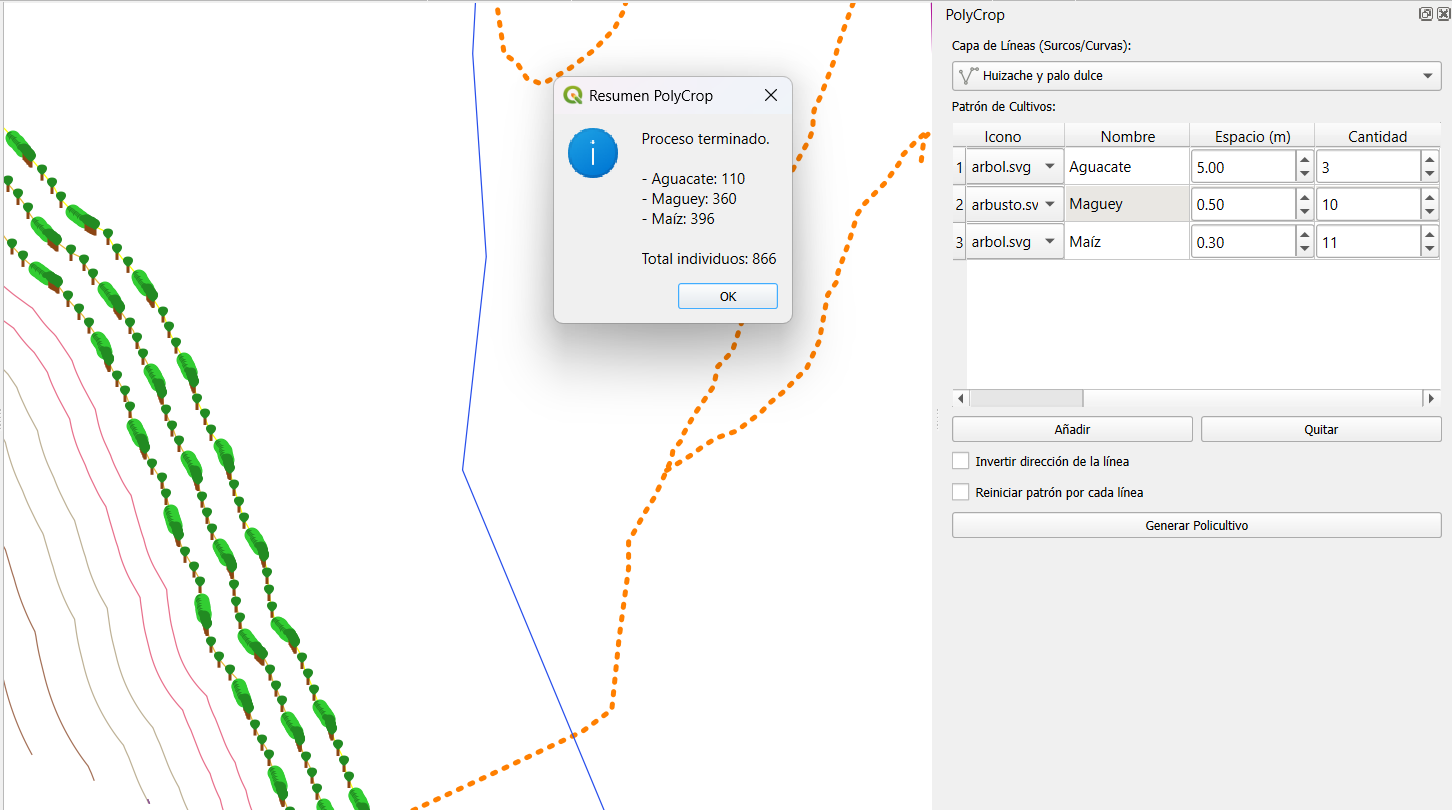
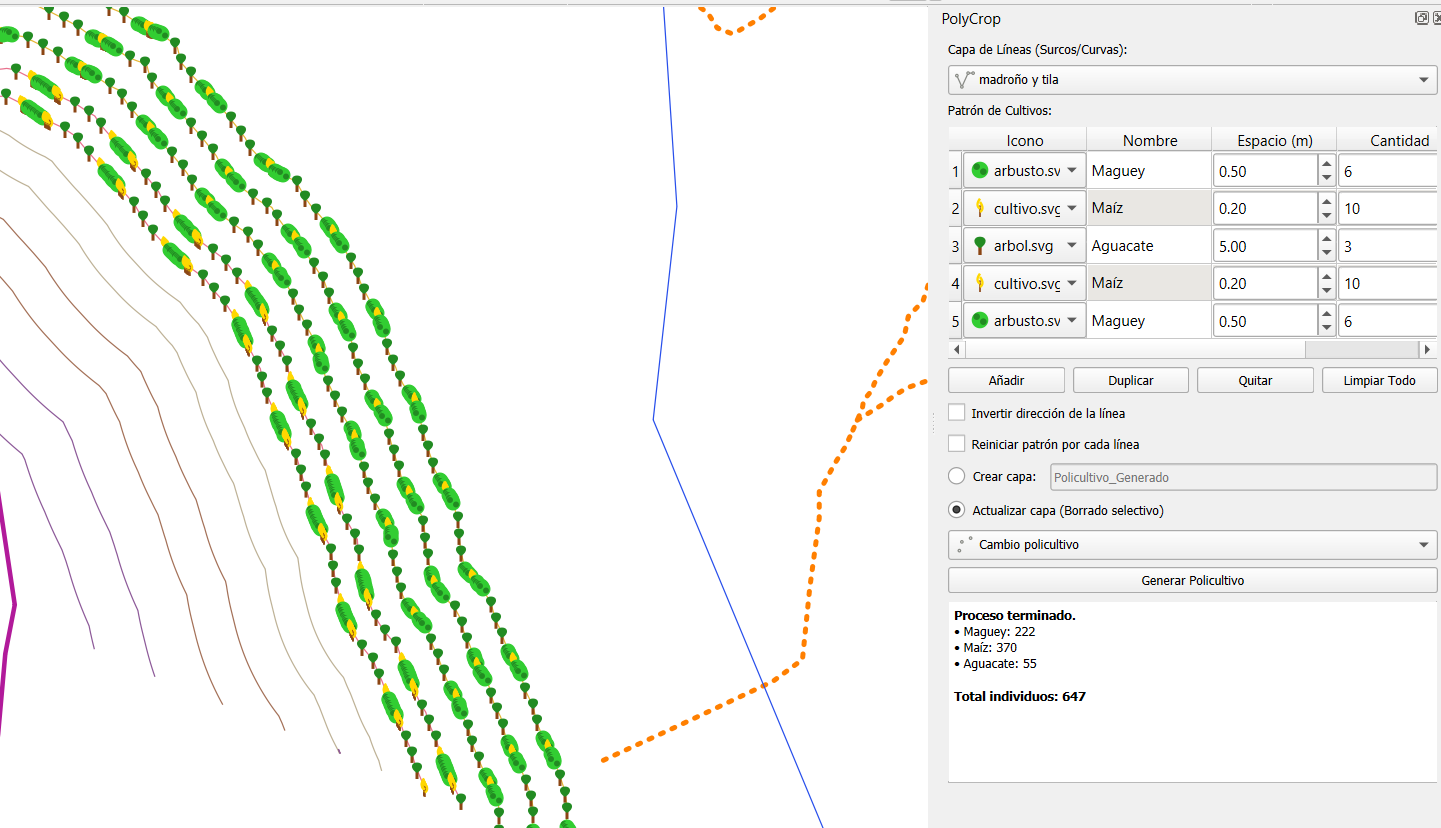
Lots of new features added, tooltips, new screenshot. One thing to fix: tooltips box, little detail

diff --git a/polycrop.py b/polycrop.py
@@ -12,10 +12,22 @@ from qgis.core import (
     QgsSvgMarkerSymbolLayer,
     QgsWkbTypes
 )
-from qgis.PyQt.QtCore import Qt, QVariant
+from qgis.PyQt.QtCore import QSettings, QTranslator, QCoreApplication, QVariant, QObject, QEvent, Qt
 from qgis.PyQt.QtGui import QIcon, QColor
-from qgis.PyQt.QtWidgets import QAction, QMessageBox, QTableWidgetItem, QComboBox, QDoubleSpinBox, QSpinBox
+from qgis.PyQt.QtWidgets import QAction, QMessageBox, QTableWidgetItem, QComboBox, QDoubleSpinBox, QSpinBox, QToolTip
 import os
+import json
+
+class TooltipEventFilter(QObject):
+    def eventFilter(self, obj, event):
+        if event.type() == QEvent.ToolTip:
+            text = obj.toolTip()
+            if text:
+                QToolTip.showText(event.globalPos(), text, obj, obj.rect(), 5000)
+                return True
+        elif event.type() == QEvent.MouseMove:
+            QToolTip.hideText()
+        return super().eventFilter(obj, event)
 
 from .polycrop_dockwidget import PolyCropDockWidget
 
@@ -52,10 +64,37 @@ class PolyCrop:
         if not self.dockwidget:
             self.dockwidget = PolyCropDockWidget()
             from qgis.core import QgsMapLayerProxyModel
+            from qgis.PyQt.QtWidgets import QAbstractItemView, QAbstractButton
             self.dockwidget.mMapLayerComboBox.setFilters(QgsMapLayerProxyModel.LineLayer)
+            self.dockwidget.mTargetLayerComboBox.setFilters(QgsMapLayerProxyModel.PointLayer)
+            
+            # Tooltips for native dock buttons
+            for btn in self.dockwidget.findChildren(QAbstractButton):
+                if btn.objectName() == "qt_dockwidget_closebutton":
+                    btn.setToolTip("Cerrar panel de PolyCrop")
+                elif btn.objectName() == "qt_dockwidget_floatbutton":
+                    btn.setToolTip("Desacoplar panel (ventana flotante)")
+                    
+            # Install tooltip event filter
+            self.tooltip_filter = TooltipEventFilter(self.dockwidget)
+            self.dockwidget.installEventFilter(self.tooltip_filter)
+            for child in self.dockwidget.findChildren(QObject):
+                if hasattr(child, 'toolTip') and child.toolTip():
+                    child.installEventFilter(self.tooltip_filter)
+            
+            self.dockwidget.radUpdateExisting.toggled.connect(self._on_update_mode_toggled)
+            self.dockwidget.mTargetLayerComboBox.layerChanged.connect(self.load_pattern_from_layer)
+            
             self.dockwidget.btnAdd.clicked.connect(self.add_crop)
+            self.dockwidget.btnDuplicate.clicked.connect(self.duplicate_crop)
             self.dockwidget.btnRemove.clicked.connect(self.remove_crop)
+            self.dockwidget.btnClear.clicked.connect(self.clear_pattern)
             self.dockwidget.btnGenerate.clicked.connect(self.generate)
+            
+            # Fix for Drag and Drop with cell widgets
+            self.dockwidget.tableWidget.setDragDropMode(QAbstractItemView.NoDragDrop)
+            self.dockwidget.tableWidget.verticalHeader().setSectionsMovable(True)
+            
             self.iface.addDockWidget(Qt.RightDockWidgetArea, self.dockwidget)
             
             # Add initial crop
@@ -97,6 +136,115 @@ class PolyCrop:
         for row in sorted(selected_rows, reverse=True):
             table.removeRow(row)
 
+    def _on_update_mode_toggled(self, checked):
+        self.dockwidget.mTargetLayerComboBox.setEnabled(checked)
+        self.dockwidget.txtLayerName.setEnabled(not checked)
+        if checked:
+            self.load_pattern_from_layer(self.dockwidget.mTargetLayerComboBox.currentLayer())
+
+    def load_pattern_from_layer(self, layer):
+        if not layer or not self.dockwidget.radUpdateExisting.isChecked():
+            return
+            
+        pattern_json = layer.customProperty("PolyCrop_Pattern")
+        if not pattern_json:
+            return
+            
+        try:
+            ui_pattern = json.loads(pattern_json)
+        except Exception:
+            return
+            
+        # Clear table and summary
+        table = self.dockwidget.tableWidget
+        table.setRowCount(0)
+        self.dockwidget.txtSummary.clear()
+        
+        # Load source line layer if available
+        source_layer_id = layer.customProperty("PolyCrop_SourceLineLayer")
+        if source_layer_id:
+            from qgis.core import QgsProject
+            proj_layer = QgsProject.instance().mapLayer(source_layer_id)
+            if proj_layer:
+                self.dockwidget.mMapLayerComboBox.setLayer(proj_layer)
+        
+        # Populate table
+        for item in ui_pattern:
+            row = table.rowCount()
+            table.insertRow(row)
+            
+            # Icon
+            combo_icon = QComboBox()
+            for icon in self.svg_icons:
+                icon_path = os.path.join(self.resources_dir, icon)
+                combo_icon.addItem(QIcon(icon_path), icon, icon_path)
+                if icon_path == item.get('icon_path'):
+                    combo_icon.setCurrentIndex(combo_icon.count() - 1)
+            table.setCellWidget(row, 0, combo_icon)
+            
+            # Name
+            table.setItem(row, 1, QTableWidgetItem(item.get('name', '')))
+            
+            # Spacing
+            spin_spacing = QDoubleSpinBox()
+            spin_spacing.setRange(0.1, 100.0)
+            spin_spacing.setSingleStep(0.1)
+            spin_spacing.setValue(item.get('spacing', 1.0))
+            table.setCellWidget(row, 2, spin_spacing)
+            
+            # Quantity
+            spin_qty = QSpinBox()
+            spin_qty.setRange(1, 1000)
+            spin_qty.setValue(item.get('qty', 1))
+            table.setCellWidget(row, 3, spin_qty)
+
+    def duplicate_crop(self):
+        table = self.dockwidget.tableWidget
+        selected_indexes = table.selectedIndexes()
+        if not selected_indexes:
+            return
+            
+        selected_row = selected_indexes[0].row()
+        
+        # Read values from selected row
+        source_combo = table.cellWidget(selected_row, 0)
+        source_icon_path = source_combo.currentData()
+        source_name = table.item(selected_row, 1).text()
+        source_spacing = table.cellWidget(selected_row, 2).value()
+        source_qty = table.cellWidget(selected_row, 3).value()
+        
+        # Insert new row below
+        new_row = selected_row + 1
+        table.insertRow(new_row)
+        
+        # Combo for icons
+        combo_icon = QComboBox()
+        for icon in self.svg_icons:
+            icon_path = os.path.join(self.resources_dir, icon)
+            combo_icon.addItem(QIcon(icon_path), icon, icon_path)
+            if icon_path == source_icon_path:
+                combo_icon.setCurrentIndex(combo_icon.count() - 1)
+        table.setCellWidget(new_row, 0, combo_icon)
+        
+        # Name
+        table.setItem(new_row, 1, QTableWidgetItem(source_name))
+        
+        # Spacing
+        spin_spacing = QDoubleSpinBox()
+        spin_spacing.setRange(0.1, 100.0)
+        spin_spacing.setSingleStep(0.1)
+        spin_spacing.setValue(source_spacing)
+        table.setCellWidget(new_row, 2, spin_spacing)
+        
+        # Quantity
+        spin_qty = QSpinBox()
+        spin_qty.setRange(1, 1000)
+        spin_qty.setValue(source_qty)
+        table.setCellWidget(new_row, 3, spin_qty)
+
+    def clear_pattern(self):
+        self.dockwidget.tableWidget.setRowCount(0)
+
     def generate(self):
         layer = self.dockwidget.mMapLayerComboBox.currentLayer()
         if not layer or layer.geometryType() != QgsWkbTypes.LineGeometry:
@@ -110,12 +258,21 @@ class PolyCrop:
 
         # Read pattern
         pattern = []
-        for row in range(table.rowCount()):
-            combo = table.cellWidget(row, 0)
+        ui_pattern = []
+        for visual_row in range(table.rowCount()):
+            logical_row = table.verticalHeader().logicalIndex(visual_row)
+            combo = table.cellWidget(logical_row, 0)
             icon_path = combo.currentData()
-            name = table.item(row, 1).text()
-            spacing = table.cellWidget(row, 2).value()
-            qty = table.cellWidget(row, 3).value()
+            name = table.item(logical_row, 1).text()
+            spacing = table.cellWidget(logical_row, 2).value()
+            qty = table.cellWidget(logical_row, 3).value()
+            
+            ui_pattern.append({
+                'name': name,
+                'spacing': spacing,
+                'icon_path': icon_path,
+                'qty': qty
+            })
             
             # Expand quantity into the pattern
             for _ in range(qty):
@@ -130,24 +287,54 @@ class PolyCrop:
 
         reverse_dir = self.dockwidget.chkReverse.isChecked()
         restart_pattern = self.dockwidget.chkRestart.isChecked()
+        update_existing = self.dockwidget.radUpdateExisting.isChecked()
 
-        # Create output layer
-        crs = layer.crs().authid()
-        vl = QgsVectorLayer(f"Point?crs={crs}", "Policultivo_Generado", "memory")
-        pr = vl.dataProvider()
-        pr.addAttributes([
-            QgsField("ID_Linea", QVariant.Int),
-            QgsField("Cultivo", QVariant.String),
-            QgsField("Orden", QVariant.Int),
-            QgsField("Espacio_usado", QVariant.Double)
-        ])
-        vl.updateFields()
+        if update_existing:
+            vl = self.dockwidget.mTargetLayerComboBox.currentLayer()
+            if not vl or vl.geometryType() != QgsWkbTypes.PointGeometry:
+                QMessageBox.warning(self.iface.mainWindow(), "Error", "Por favor seleccione una capa de puntos válida para actualizar.")
+                return
+            pr = vl.dataProvider()
+        else:
+            # Create output layer
+            layer_name = self.dockwidget.txtLayerName.text().strip()
+            if not layer_name:
+                layer_name = "Policultivo_Generado"
+                
+            crs = layer.crs().authid()
+            vl = QgsVectorLayer(f"Point?crs={crs}", layer_name, "memory")
+            pr = vl.dataProvider()
+            pr.addAttributes([
+                QgsField("ID_Linea", QVariant.Int),
+                QgsField("Cultivo", QVariant.String),
+                QgsField("Orden", QVariant.Int),
+                QgsField("Espacio_usado", QVariant.Double)
+            ])
+            vl.updateFields()
 
         features_to_add = []
         pattern_index = 0
         counts = {}
         
-        for feature in layer.getFeatures():
+        # Decide which features to process
+        selected_features = layer.selectedFeatures()
+        if selected_features:
+            features_to_process = selected_features
+        else:
+            features_to_process = list(layer.getFeatures())
+            
+        line_ids = [f.id() for f in features_to_process]
+        
+        # Selective Deletion logic
+        if update_existing and line_ids:
+            from qgis.core import QgsFeatureRequest
+            expr = f"ID_Linea IN ({','.join(map(str, line_ids))})"
+            request = QgsFeatureRequest().setFilterExpression(expr)
+            ids_to_delete = [f.id() for f in vl.getFeatures(request)]
+            if ids_to_delete:
+                pr.deleteFeatures(ids_to_delete)
+        
+        for feature in features_to_process:
             geom = feature.geometry()
             if not geom or geom.isEmpty():
                 continue
@@ -184,10 +371,6 @@ class PolyCrop:
                 current_dist += step
                 
                 if current_dist > length:
-                    # If we exceeded the line length, we don't place this crop here.
-                    # We need to decide if the next line starts with THIS crop or the NEXT.
-                    # Usually, if we didn't place it, we should start with it on the next line (if not restarting).
-                    # So we don't increment anything further, just break.
                     break
                     
                 pt = geom.interpolate(current_dist)
@@ -205,18 +388,25 @@ class PolyCrop:
             # Apply styling
             self._apply_styling(vl, pattern)
             
-            QgsProject.instance().addMapLayer(vl)
+            # Save pattern metadata
+            vl.setCustomProperty("PolyCrop_Pattern", json.dumps(ui_pattern))
+            vl.setCustomProperty("PolyCrop_SourceLineLayer", layer.id())
+            
+            if not update_existing:
+                QgsProject.instance().addMapLayer(vl)
+            else:
+                vl.triggerRepaint()
             
             # Show summary
-            summary = "Proceso terminado.\n\n"
+            summary = "<b>Proceso terminado.</b><br/>"
             total = 0
             for name, count in counts.items():
-                summary += f"- {name}: {count}\n"
+                summary += f"&bull; {name}: {count}<br/>"
                 total += count
-            summary += f"\nTotal individuos: {total}"
-            QMessageBox.information(self.iface.mainWindow(), "Resumen PolyCrop", summary)
+            summary += f"<br/><b>Total individuos: {total}</b>"
+            self.dockwidget.txtSummary.setHtml(summary)
         else:
-            QMessageBox.information(self.iface.mainWindow(), "Sin Resultados", "No se generaron puntos (posiblemente las líneas son muy cortas).")
+            self.dockwidget.txtSummary.setHtml("<font color='red'>No se generaron puntos (posiblemente las líneas son muy cortas).</font>")
 
     def _reverse_line(self, geom):
         # QGIS 3 geometries